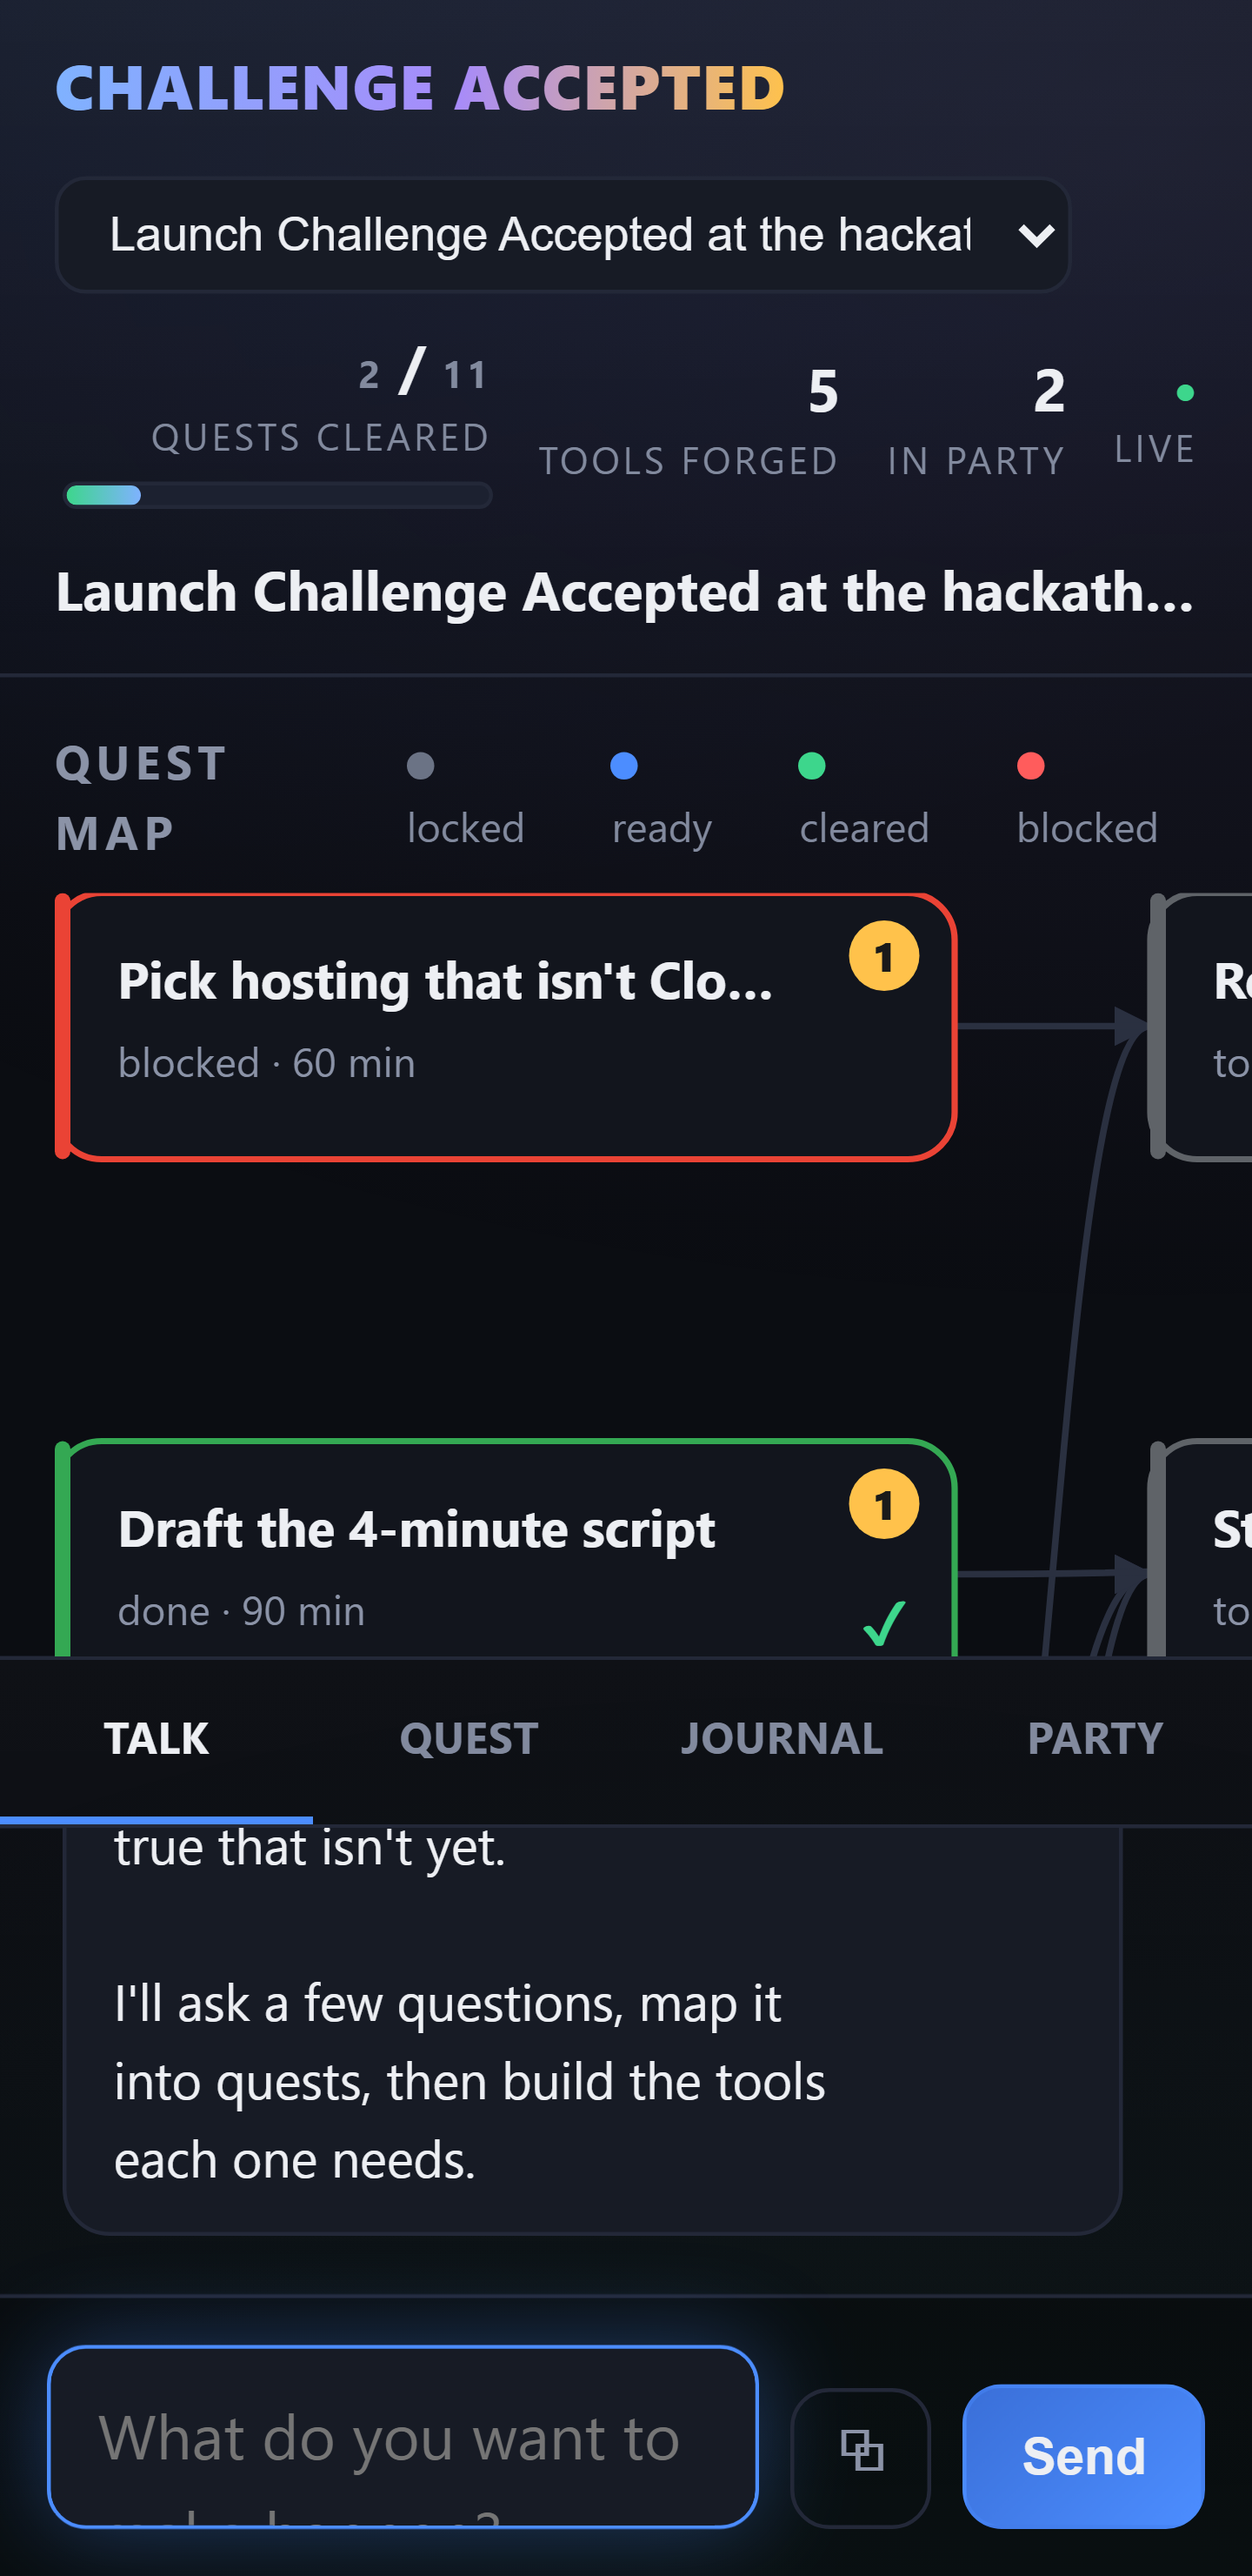
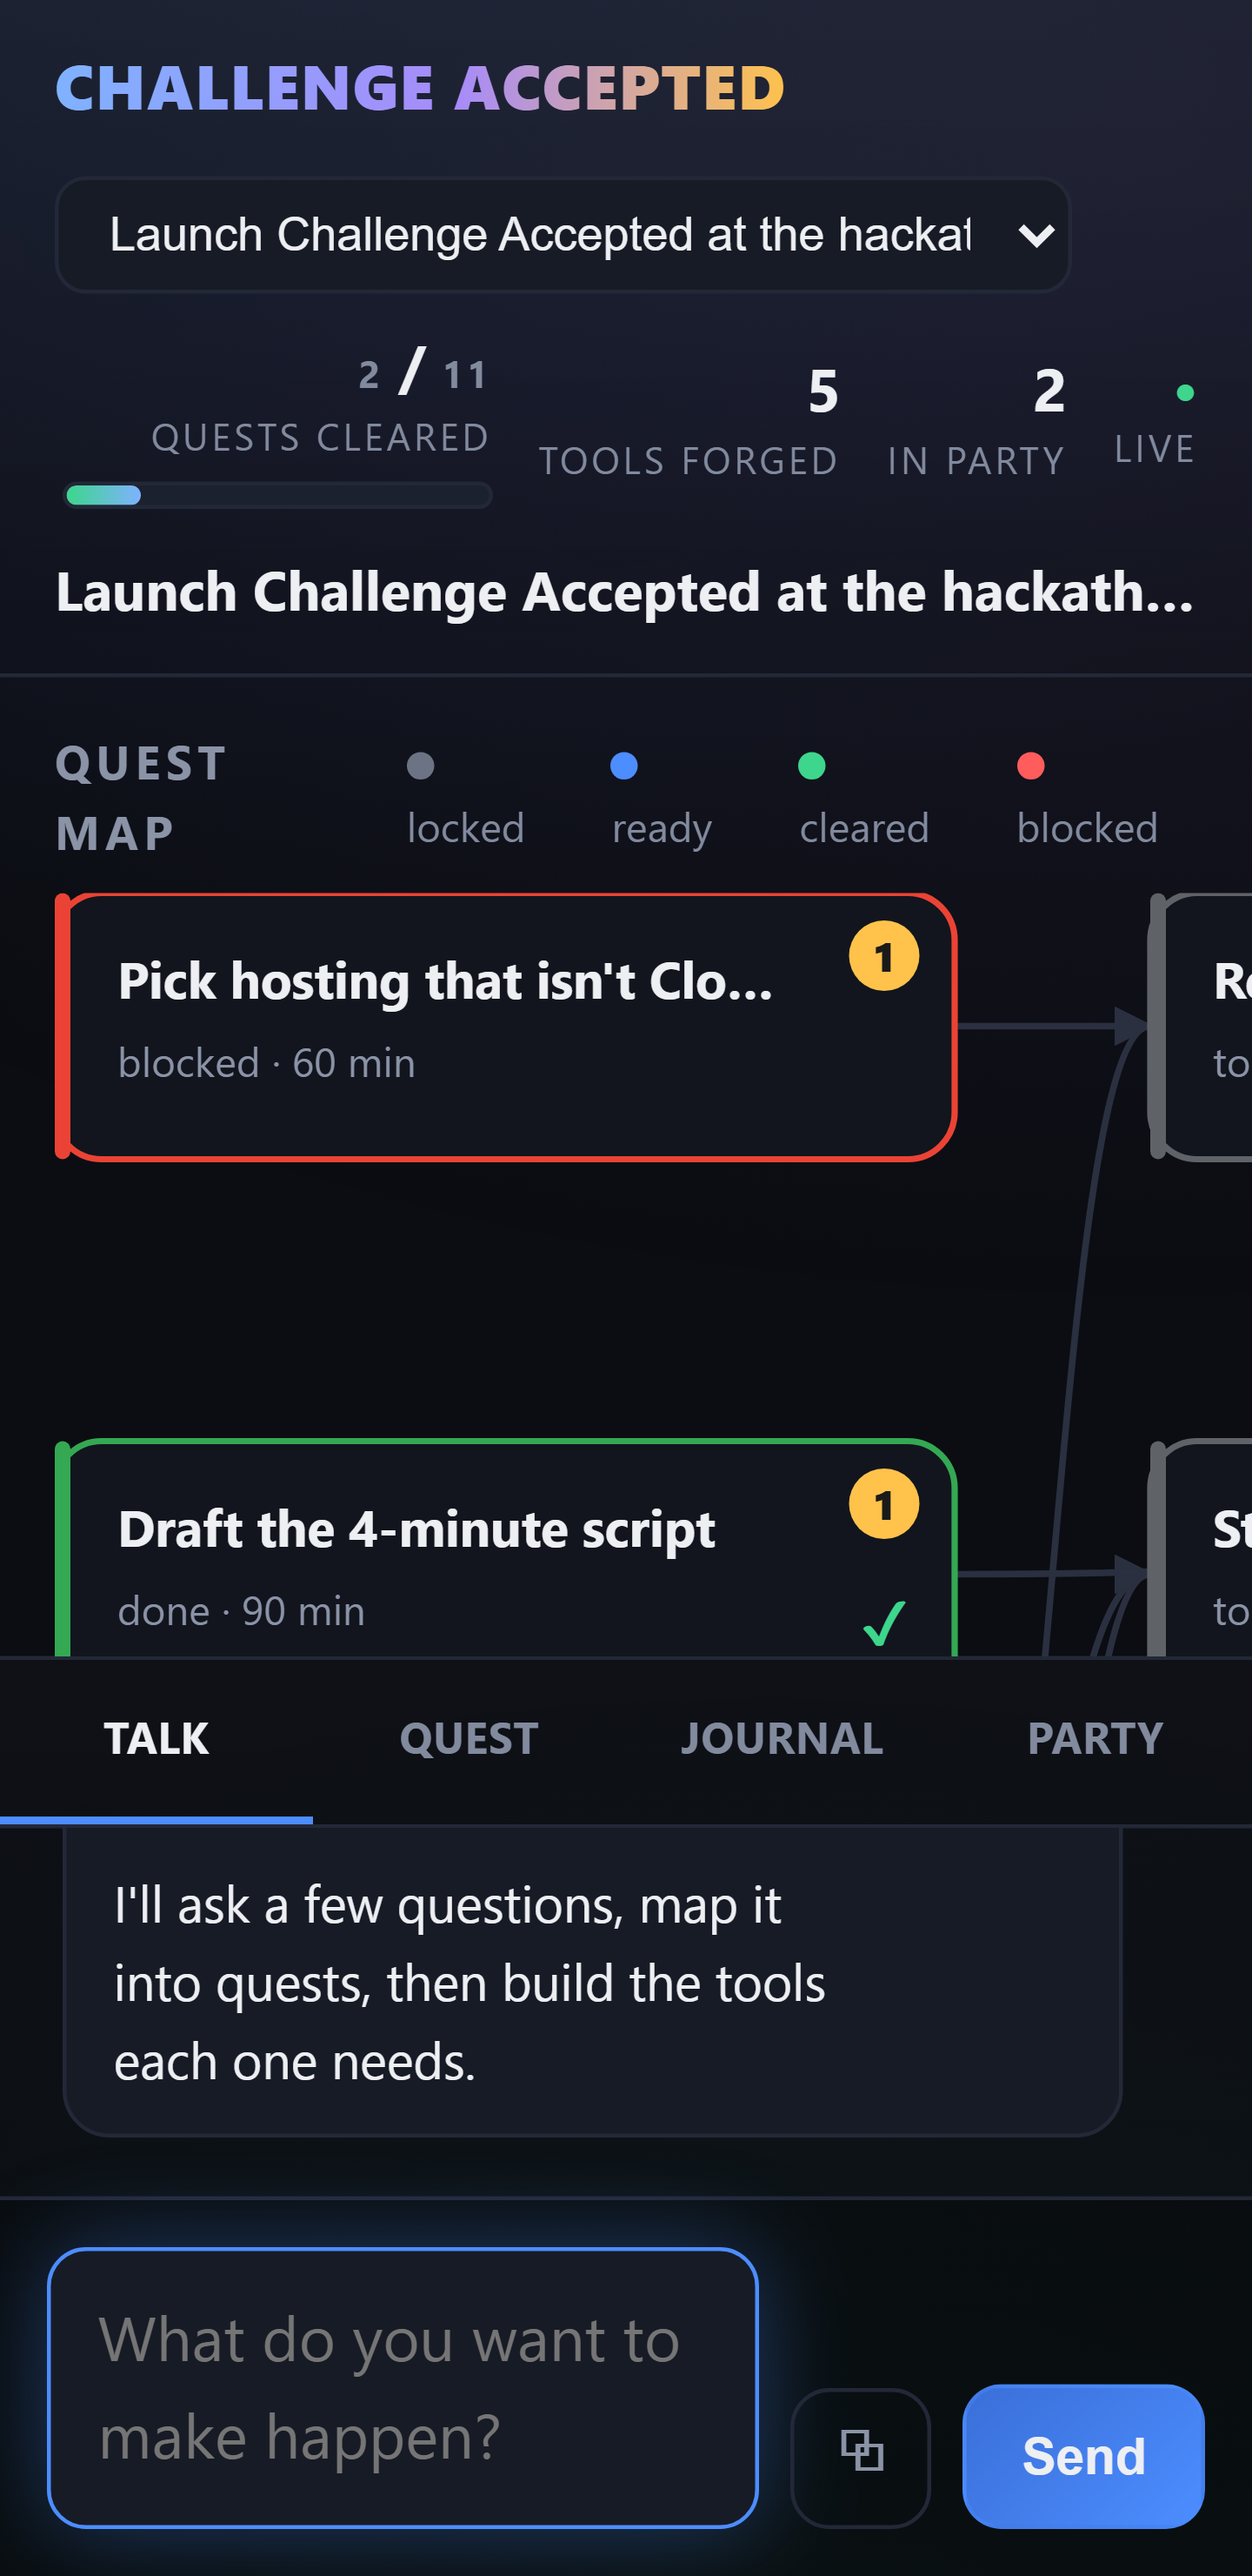
A hint nobody could ever read, and a greeting cut in half

Changed region(s): [[0.0312, 0.7146, 0.6562, 0.9632], [0.875, 0.8389, 0.9062, 0.87], [0.625, 0.8078, 0.6562, 0.8389]]

diff --git a/challenge_accepted/static/app.html b/challenge_accepted/static/app.html
@@ -212,6 +212,14 @@
        is "this device raises a touch keyboard", which is exactly what hover:none
        means. Found by check_devices.py at 1024px, a width nothing had ever rendered. */
     #input, .why input{font-size:16px}
+
+    /* 16px is non-negotiable above, but it costs width: on a 320px screen the composer
+       is 182px, so the placeholder wraps to two lines inside a one-line box and the
+       user is greeted by a sentence cut in half. Measured need is 70px of content;
+       46px was a guess and left it still clipped. Two full lines, which is what every
+       messaging app on a phone gives you anyway. Caught by the screenshots -- every
+       numeric assertion passed while this was on screen. */
+    #input{min-height:72px}
   }
   .ghost{background:transparent;border:1px solid var(--line);color:var(--dim);
     font-size:11.5px;padding:7px 11px}
@@ -335,8 +343,14 @@
       <div id="forge"></div>
       <div id="chatlog"></div>
       <div class="composer">
-        <textarea id="input" rows="1"
-          placeholder="What do you want to make happen?&#10;Shift+Enter for a new line"></textarea>
+        <!-- The placeholder used to carry a second line -- "Shift+Enter for a new
+             line" -- separated by &#10;. The textarea is rows="1", so that hint has
+             never been visible on any device, at any width, since it was written: the
+             box is one line tall and the text was on line two. It was also advice for
+             a keyboard, offered to phones. It lives in `title` now, where a pointer
+             user can actually find it. -->
+        <textarea id="input" rows="1" title="Shift+Enter for a new line"
+          placeholder="What do you want to make happen?"></textarea>
         <button class="ghost" id="copyall"
                 title="Copy the whole conversation as markdown">⧉</button>
         <button class="send" id="send">Send</button>

diff --git a/scripts/check_devices.py b/scripts/check_devices.py
@@ -20,11 +20,15 @@ bracket the real ones.
   * **iPad landscape (1024px)** -- **the hole.** Above the breakpoint, far below the
     1500px the desktop checks use. Nothing has ever rendered this width.
 
-Layout is a client concern: the HTML served here is the same single file production
-serves, so testing it locally is legitimate. That is not true of agent behaviour, which
-is why the agent checks are the ones that must run against the deployed service.
+Layout is a client concern: the HTML served locally is the same single file production
+serves, so testing it locally is legitimate in a way it is not for agent behaviour. But
+"the same file" is an assumption, and this project has been bitten hard by exactly that
+class of assumption -- FORGE passed locally for weeks while building nothing in
+production. So pass a URL and it renders the deployed page instead, on the same five
+viewports, against a real challenge pulled from the live API.
 
-    python scripts\\check_devices.py
+    python scripts\\check_devices.py                            # local, seeded
+    python scripts\\check_devices.py https://challengeaccepted.app   # the deployed page
 
 Exit 0 only if every viewport passes every assertion.
 """
@@ -132,6 +136,24 @@ def _check(page, label, vw, vh) -> list[str]:
         bad.append(f"{label}: the composer is {comp['fs']:.0f}px -- iOS force-zooms "
                    "any focused input under 16px and does not zoom back")
 
+    # Text that does not fit its own box. Every numeric assertion above passed while
+    # the composer greeted the user with a sentence cut in half -- the placeholder
+    # wrapped to two lines inside a one-line textarea, and only the screenshots showed
+    # it. A width in pixels tells you nothing about whether the words fit.
+    clipped = page.evaluate(
+        """() => {
+             const out = [];
+             for (const el of document.querySelectorAll('#input,.msg .body,#title')) {
+               if (el.scrollHeight > el.clientHeight + 2)
+                 out.push((el.id || el.className) + ' needs ' + el.scrollHeight +
+                          'px, has ' + el.clientHeight);
+             }
+             return out;
+           }""")
+    _p(f"    clipped text : {clipped if clipped else 'none'}")
+    if clipped:
+        bad.append(f"{label}: text cut off by its own box -- {clipped}")
+
     # Nothing may hang off the bottom or the right of the viewport.
     spill = page.evaluate(
         """() => {
@@ -149,14 +171,43 @@ def _check(page, label, vw, vh) -> list[str]:
     return bad
 
 
-def main() -> None:
-    with socket.socket() as s:
-        if s.connect_ex(("127.0.0.1", PORT)) == 0:
-            sys.exit(f"FAIL: something is already listening on {PORT}. Kill it first.")
+def _live_challenge(base: str) -> str:
+    """A real challenge from the deployed API -- one with tools, so the map is populated.
 
-    cid = seed()
-    threading.Thread(target=serve, daemon=True).start()
-    time.sleep(2.0)
+    An empty dashboard would pass every assertion here by having nothing to lay out.
+    """
+    import json
+    import urllib.request
+
+    with urllib.request.urlopen(base.rstrip("/") + "/api/challenges?limit=25",
+                                timeout=30) as r:
+        rows = json.load(r)
+    rows = rows if isinstance(rows, list) else rows.get("challenges", [])
+    for row in rows:
+        url = f"{base.rstrip('/')}/api/challenges/{row['id']}/dashboard"
+        with urllib.request.urlopen(url, timeout=30) as r:
+            dash = json.load(r)
+        tools = dash.get("tools")
+        tools = (tools.get("tools") if isinstance(tools, dict) else tools) or []
+        nodes = (dash.get("graph") or {}).get("nodes") or []
+        if tools and nodes:
+            print(f"live challenge: {row['id']}  ({len(nodes)} nodes, {len(tools)} tools)")
+            return row["id"]
+    sys.exit("FAIL: no deployed challenge has both nodes and tools to lay out.")
+
+
+def main(base: str | None = None) -> None:
+    if base:
+        cid = _live_challenge(base)
+        origin = base.rstrip("/")
+    else:
+        with socket.socket() as s:
+            if s.connect_ex(("127.0.0.1", PORT)) == 0:
+                sys.exit(f"FAIL: something is already listening on {PORT}. Kill it first.")
+        cid = seed()
+        threading.Thread(target=serve, daemon=True).start()
+        time.sleep(2.0)
+        origin = f"http://127.0.0.1:{PORT}"
 
     failures: list[str] = []
     from playwright.sync_api import sync_playwright
@@ -177,7 +228,7 @@ def main() -> None:
                     lambda m: errors.append(m.text) if m.type == "error" else None)
             page.on("pageerror", lambda e: errors.append(str(e)))
 
-            page.goto(f"http://127.0.0.1:{PORT}/app?id={cid}", wait_until="networkidle")
+            page.goto(f"{origin}/app?id={cid}", wait_until="networkidle")
             page.wait_for_timeout(1000)
             vw = page.viewport_size["width"]
             vh = page.viewport_size["height"]
@@ -199,8 +250,9 @@ def main() -> None:
             _p(" * " + f)
         sys.exit(1)
 
-    _p(f"\nthe layout holds on all {len(DEVICES)} viewports. wrote _dev_*.png")
+    where = origin if origin.startswith("https") else "a local server"
+    _p(f"\nthe layout holds on all {len(DEVICES)} viewports, on {where}. wrote _dev_*.png")
 
 
 if __name__ == "__main__":
-    main()
+    main(sys.argv[1] if len(sys.argv) > 1 else None)
